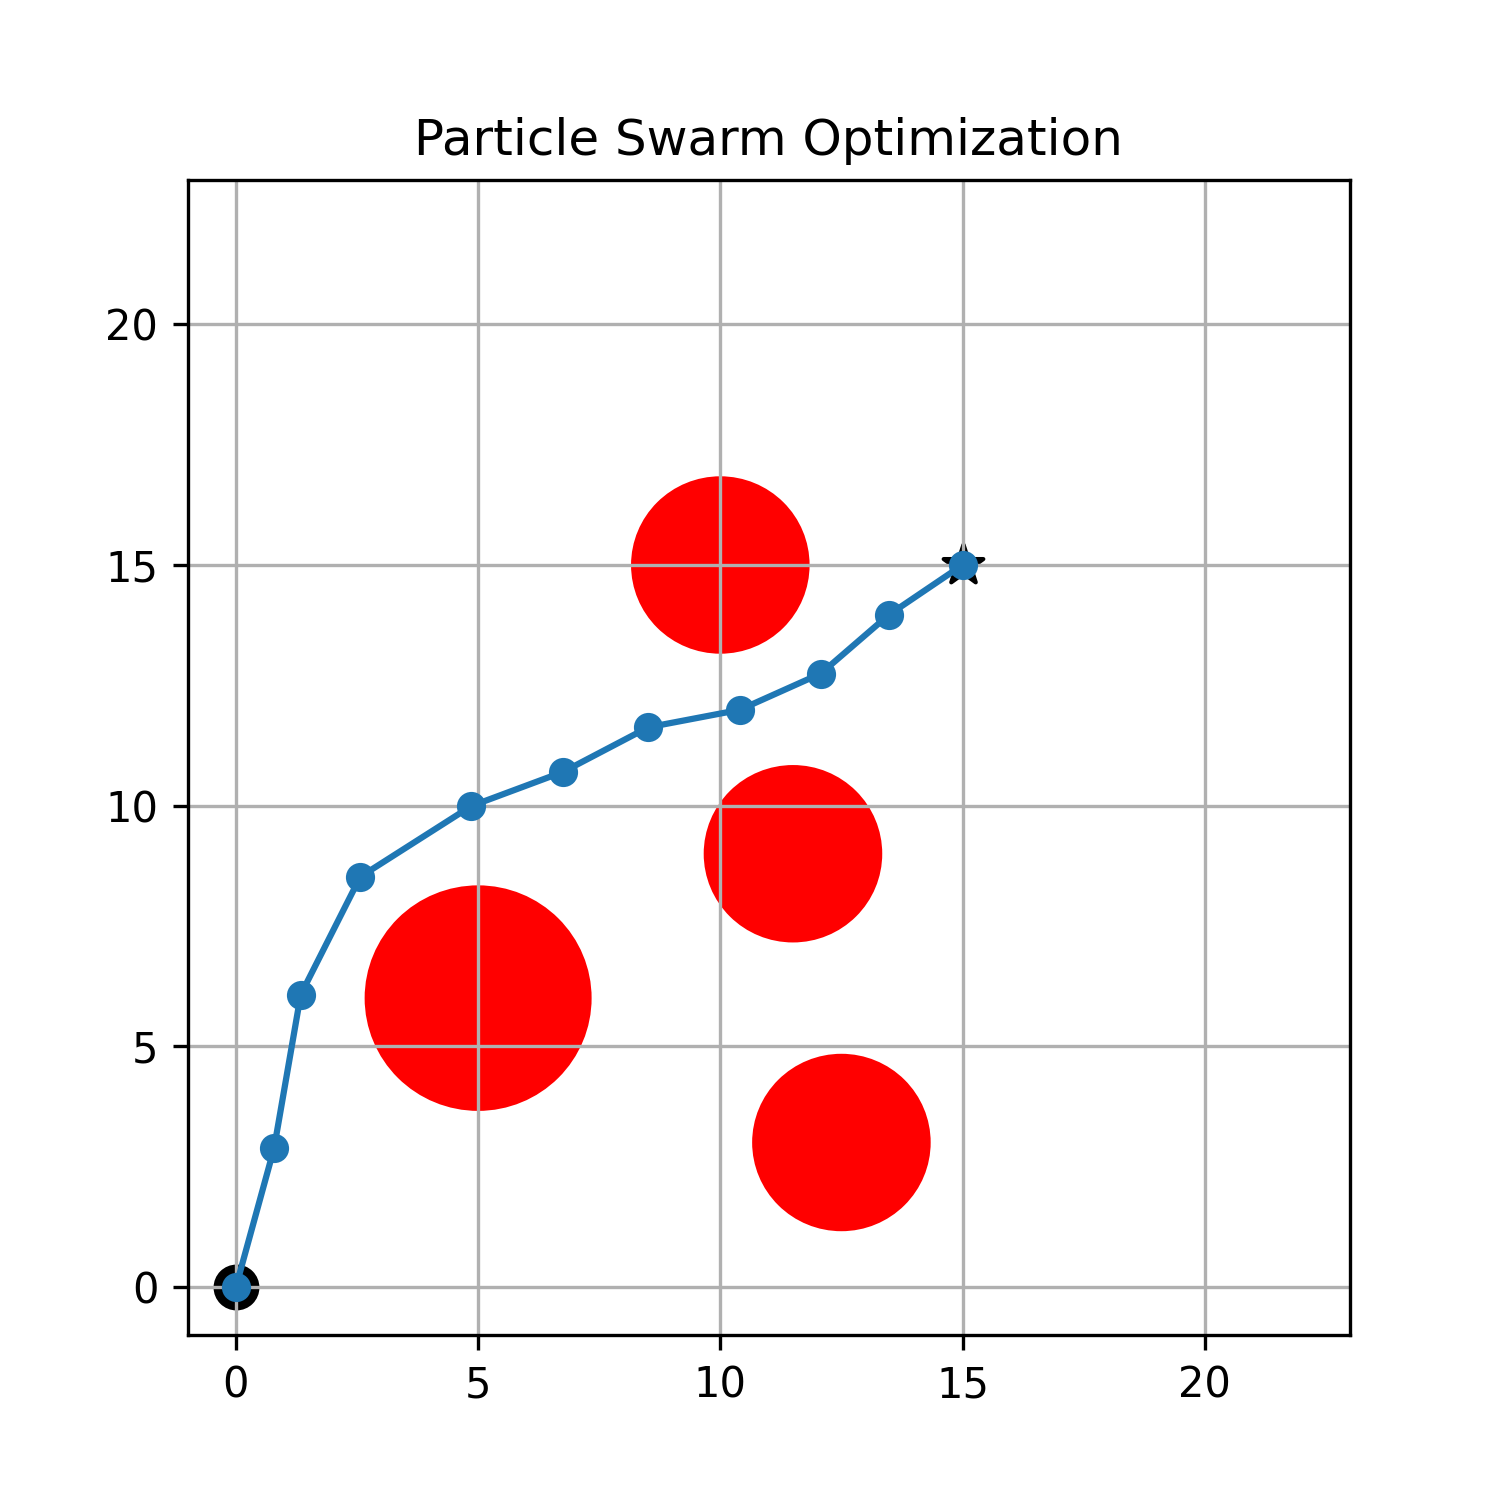
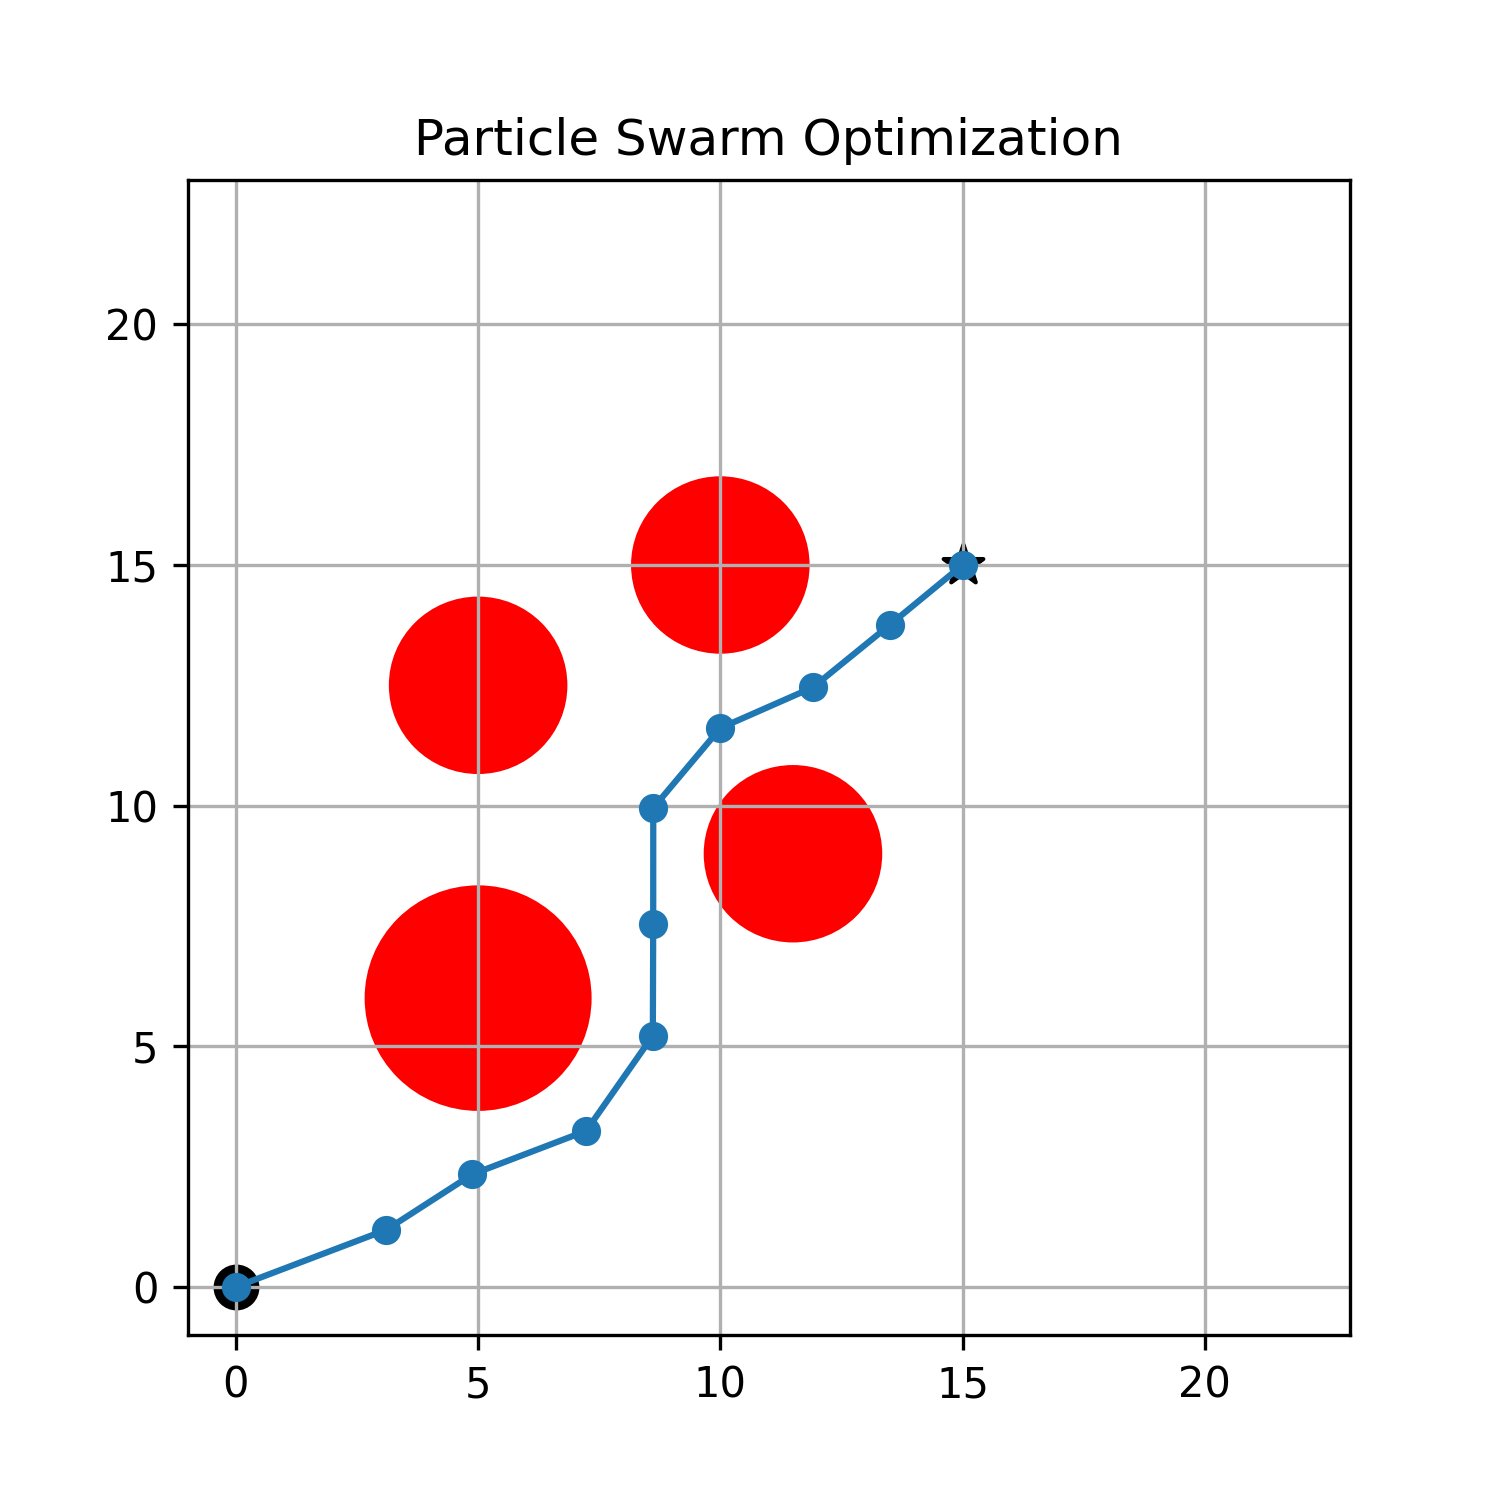
third commit change obtaces4

diff --git a/main.py b/main.py
@@ -241,8 +241,8 @@ def main():
     obstacle1 = ob.Obstacle_Circle(2, ob.Point(9 +1, 14 + 1))  
     obstacle2 = ob.Obstacle_Circle(2.5, ob.Point(5, 6))
     obstacle3 = ob.Obstacle_Circle(2, ob.Point(11.5, 9))
-    obstacle4 = ob.Obstacle_Circle(2, ob.Point(12.5, 3))
-    # obstacle4 = ob.Obstacle_Circle(2, ob.Point(5, 12.5))
+    # obstacle4 = ob.Obstacle_Circle(2, ob.Point(12.5, 3))
+    obstacle4 = ob.Obstacle_Circle(2, ob.Point(5, 12.5))
 
     # obstacle5 = ob.Obstacle_Circle(2, ob.Point(12.5, 13.5))
     # obstacles = [obstacle1, obstacle2, obstacle3,obstacle4,obstacle5]
